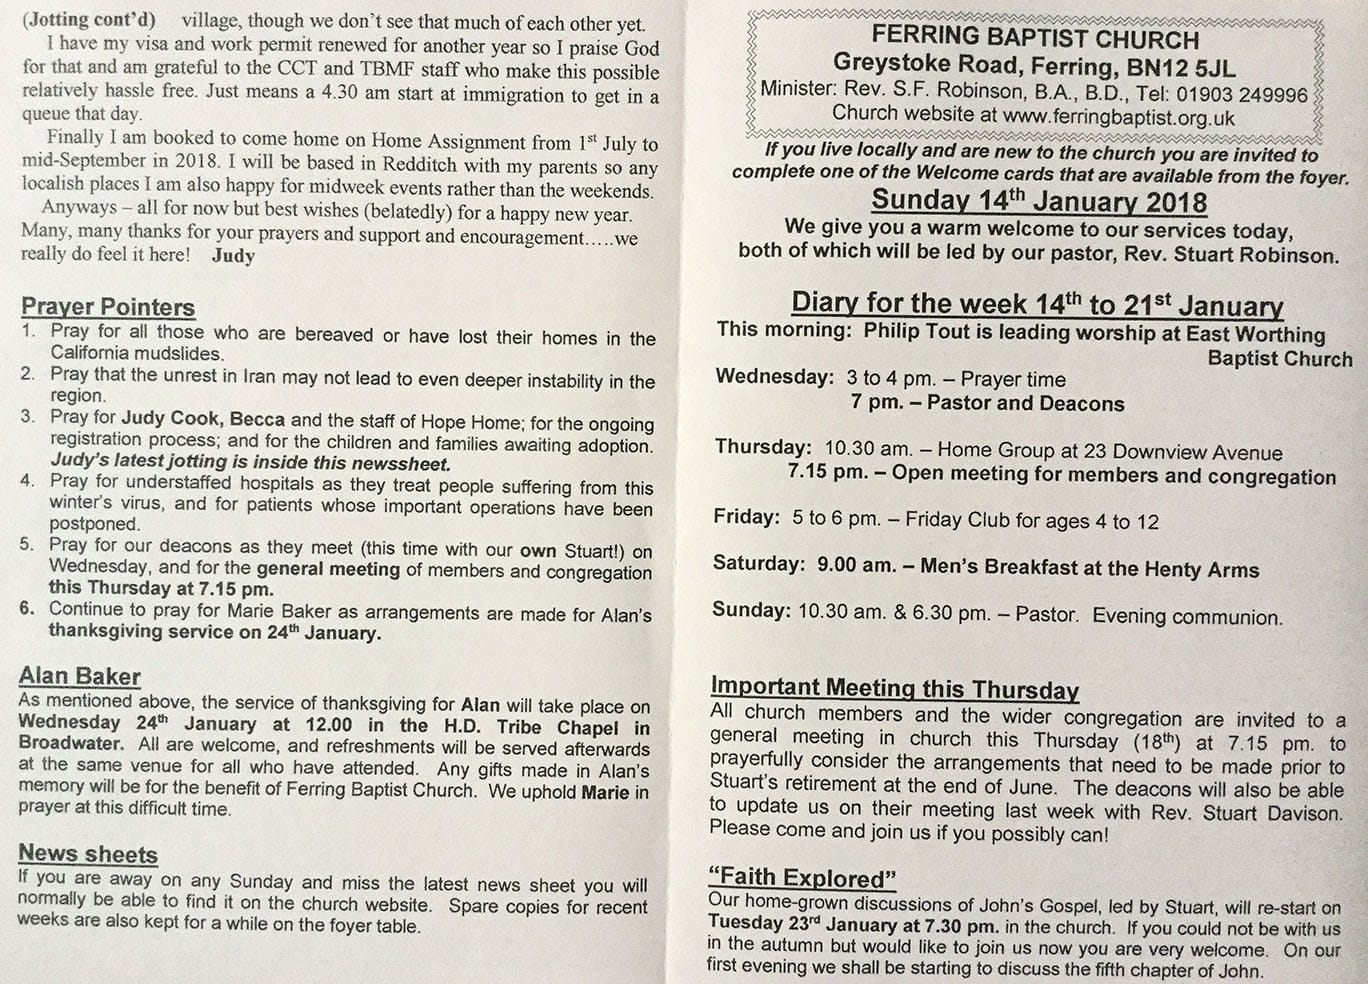
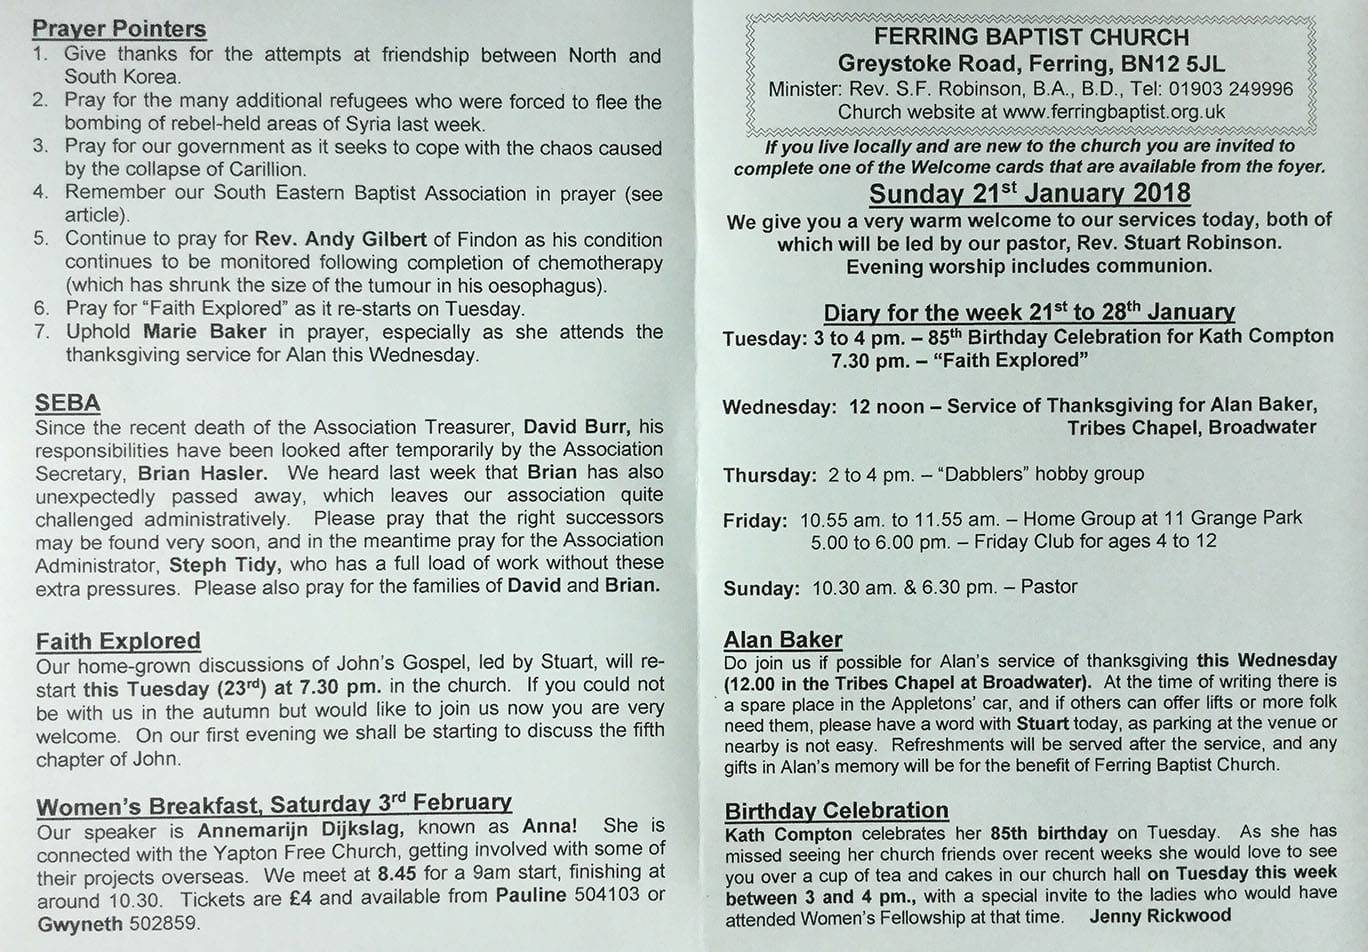
Weekly update

diff --git a/diary.php b/diary.php
@@ -6,7 +6,7 @@
 
 				<p class="centre">(For a long-term look at our church, see the <a href="upcoming.php">Coming Weeks page</a>)</p>
 
-				<p class="centre"><strong>Schedule for the week 14th to 21st January</strong></p>
+				<p class="centre"><strong>Schedule for the week 21st to 28th January</strong></p>
 
 				<table class="styled" summary="Schedule for events in the coming week(s)">
 					<thead>
@@ -18,21 +18,19 @@
 					</thead>
 					<tbody>
 						<tr class="odd">
-							<th scope="row">Wednesday<br />3:00-4:00 P.M.</th>
-							<td>Prayer time</td>
+							<th scope="row">Tuesday<br />7:30 P.M.</th>
+							<td>"Faith Explored"</td>
 							<td></td>
 						</tr>
-						<tr>
-							<th scope="row">Thursday<br /> 10:30 A.M.</th>
-							<td>Home Group at<br />Mike &amp; Pat's</td>
-							<td></td>
+                        <tr>
+							<th scope="row">Thursday<br />2:00-4:00 P.M.</th>
+							<td>"Dabblers" Hobby Group</td>
+							<td>All welcome!</td>
 						</tr>
-                        <tr class="odd">
-							<th scope="row">Thursday<br /> 7:15 P.M.</th>
-							<td><strong>Open Church Meeting</strong></td>
-							<td>Important meeting for members<br />
-                                and congregation!<br />
-                                <a href="newssheet.php">See newssheet</a> for details</td>
+						<tr class="odd">
+							<th scope="row">Friday<br />10:55 A.M.</th>
+							<td>Home Group at<br />Bryan &amp; Audrey's</td>
+							<td></td>
 						</tr>
 						<tr>
 							<th scope="row">Friday<br />5:00-6:00 P.M.</th>
@@ -42,7 +40,7 @@
 						<tr class="odd">
 							<th scope="row">Sunday<br />10:30 A.M.<br />6:30 P.M.</th>
 							<td>Sunday Services</td>
-							<td>Evening worship includes communion</td>
+							<td></td>
 						</tr>
 					</tbody>
 				</table>

diff --git a/newssheet.php b/newssheet.php
@@ -16,7 +16,7 @@
 
 				<a href="images/newssheetfront.jpg"><img src="images/newssheetfront.jpg" width="600" style="margin-left: 75px;" /></a>
 
-				<a href="images/newssheetinside.jpg"><img src="images/newssheetinside.jpg" width="600" style="margin-left: 75px;" /></a>
+				<!--<a href="images/newssheetinside.jpg"><img src="images/newssheetinside.jpg" width="600" style="margin-left: 75px;" /></a>-->
 
 			</div>
 			<div id="footer">
